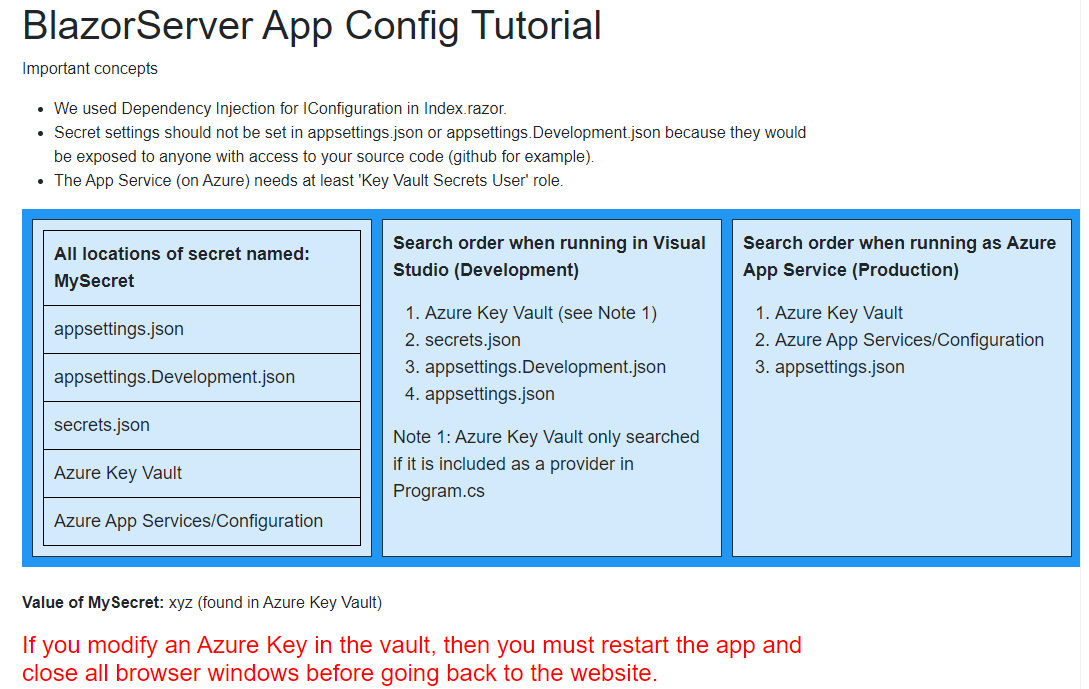
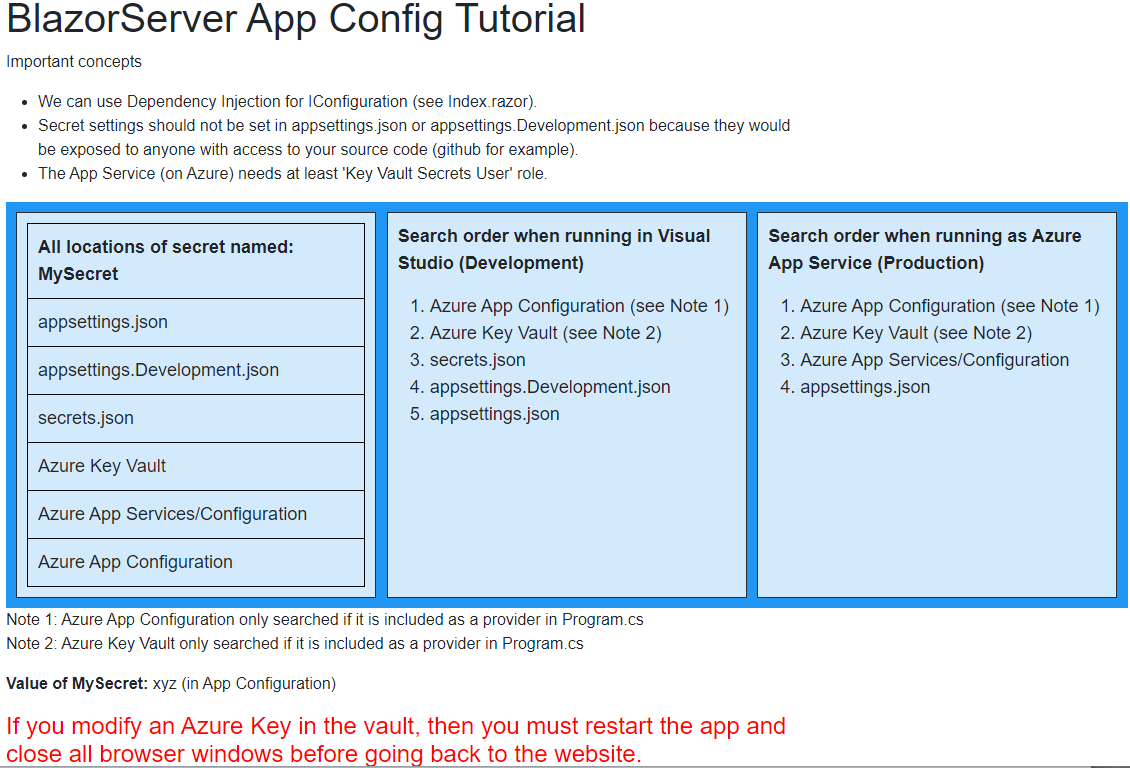
Add Azure App Configuration provider

Changed region(s): [[0.0, 0.0, 1.0, 1.0]]

diff --git a/Program.cs b/Program.cs
@@ -21,7 +21,15 @@ var configuration = builder.Configuration;
 if (builder.Environment.IsProduction())
 {
     configuration.AddAzureKeyVault(new Uri("https://kentestkv.vault.azure.net/"), new DefaultAzureCredential());
+    // 11/24/2023 Adding AppConfiguration: 
+    configuration.AddAzureAppConfiguration(options =>
+        options.Connect(
+            //new Uri(builder.Configuration["AppConfig:Endpoint"]),    <--- should do this with AppConfig:Endpoint specified in appsettings.json
+            new Uri("https://kentestappcfg.azconfig.io"),           // <--- quick and dirty hard-coded for now
+            new DefaultAzureCredential()));                         // Allows me to run on VisualStudio and Production!
+            //new ManagedIdentityCredential()));
 }
+
 // Quick test in debug (also see <h2>@Configuration["MySecret"]</h2> in index.razor)
 // Console.WriteLine(configuration["MySecret"]);
 
